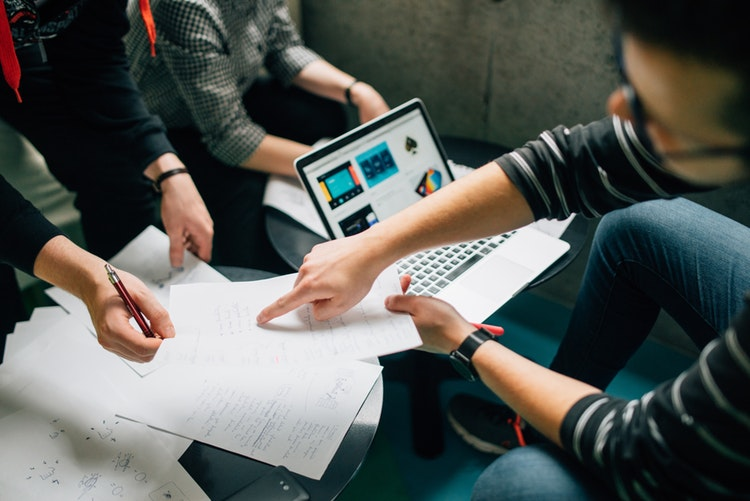
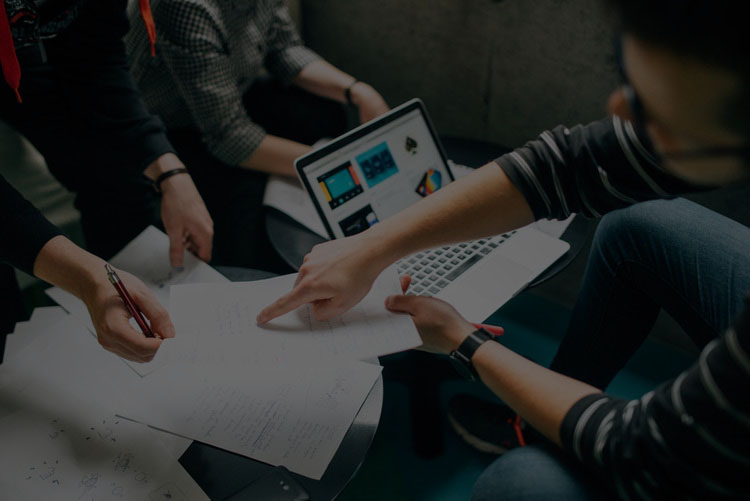
update adaptive + header

diff --git a/index.html b/index.html
@@ -11,6 +11,7 @@
 
     <link rel="stylesheet" type="text/css" href="assets/styles/style.css">
     <link rel="stylesheet" type="text/css" href="assets/styles/header.css">
+    <link rel="stylesheet" type="text/css" href="assets/styles/slide.css">
     <link rel="stylesheet" type="text/css" href="assets/styles/section-about.css">
 </head>
 <body>
@@ -30,7 +31,7 @@
                 <ul class="nav-menu">
                     <li><a href="#home">Home</a></li>
                     <li><a href="#about">About</a></li>
-                    <li><a href="apps.html">Products</a></li>
+                    <li><a href="projects.html">Projects</a></li>
                     <li><a href="apps.html">Apps</a></li>
                     <li><a href="mailto:support@analytix.co">Contact Us</a></li>
                     <li><a href="login.html" class="black-link">Log In</a></li>
@@ -38,14 +39,14 @@
                 </ul>
             </div>
             <div class="desktop-nav">
-                <a href="" class="other-link">Home</a>
-                <a href="" class="other-link">About</a>
-                <a href="" class="other-link">Products</a>
-                <a href="" class="other-link">Apps</a>
-                <a href="" class="other-link">Contact Us</a>
-                <a href="" class="link">Log In</a>
+                <a href="#home" class="other-link">Home</a>
+                <a href="#about" class="other-link">About</a>
+                <a href="projects.html" class="other-link">Projects</a>
+                <a href="apps.html" class="other-link">Apps</a>
+                <a href="mailto:support@analytix.co" class="other-link">Contact Us</a>
+                <a href="login.html" class="link">Log In</a>
                 or
-                <a href="" class="link">Sign Up</a>
+                <a href="signup.html" class="link">Sign Up</a>
             </div>
         </div>
     </div>
@@ -60,7 +61,7 @@
 </div>
 
 <!--SECTION-ABOUT-->
-<div class="section-about">
+<div class="section-about" id="about">
     <div class="container">
         <div class="block first">
             <div class="mblock1">

diff --git a/assets/styles/header.css b/assets/styles/header.css
@@ -34,7 +34,7 @@
     width: 32px;
     height: 3px;
     border-radius: 4px;
-    background-color: darkslateblue;
+    background-color: white;
     transition: 0.8s;
 }
 
@@ -81,6 +81,10 @@
     padding-right: 25px;
 }
 
+.mobile-nav.-open .nav-toggle i {
+    background-color: black;
+}
+
 .mobile-nav.-open .nav-toggle i:nth-child(2) {
     transform: rotate(45deg);
     margin-bottom: -11px;
@@ -109,6 +113,7 @@
 .other-link {
     margin: 0 15px;
     padding-bottom: 4px;
+    transition: .1s;
 }
 
 .other-link:hover {
@@ -137,12 +142,8 @@
 
 @media screen and (min-width: 320px){
     .header {
-        background-color: white;
+        background-color: rgba(255, 255, 255, 0.3);
         margin-top: 0;
-    }
-
-    .slide {
-        padding-top: 0;
     }
 }
 
@@ -166,9 +167,5 @@
     }
     .header-logo {
         height: 70px;
-    }
-
-    .slide {
-        padding-top: 25px;
     }
 }

diff --git a/assets/styles/slide.css b/assets/styles/slide.css
@@ -1,0 +1,37 @@
+.slide {
+    background-image: url("../img/bg-main.jpg");
+    background-size: cover;
+    text-align: center;
+}
+
+.main-title {
+    height: 30%;
+}
+
+.main-title h2 {
+    color: white;
+}
+
+@media screen and (min-width: 320px){
+    .slide {
+        height: calc(100vh - 60px);
+        padding-top: 0;
+    }
+
+    .main-title {
+        font-size: 45px;
+        margin: 20%;
+    }
+}
+
+@media screen and (min-width: 770px){
+    .slide {
+        padding-top: 25px;
+        height: 100vh;
+    }
+
+    .main-title {
+        margin-top: 8%;
+        font-size: 64px;
+    }
+}

diff --git a/assets/styles/style.css b/assets/styles/style.css
@@ -25,13 +25,3 @@ ul {
     box-sizing: border-box;
 }
 
-.slide {
-    background-image: url("../img/bg-main.jpg");
-    background-size: cover;
-    text-align: center;
-}
-
-.main-title h2 {
-    font-size: 52px;
-    color: white;
-}
